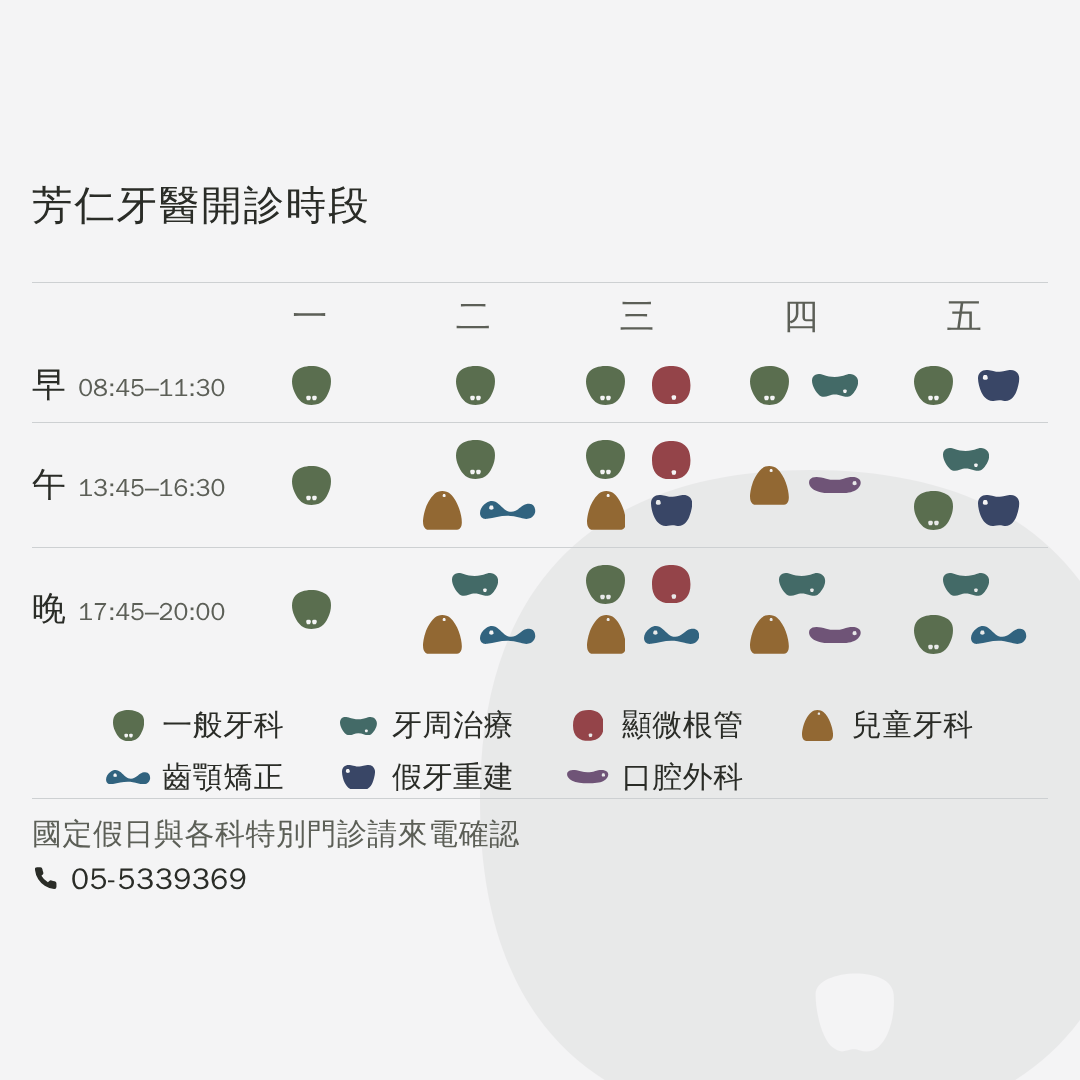
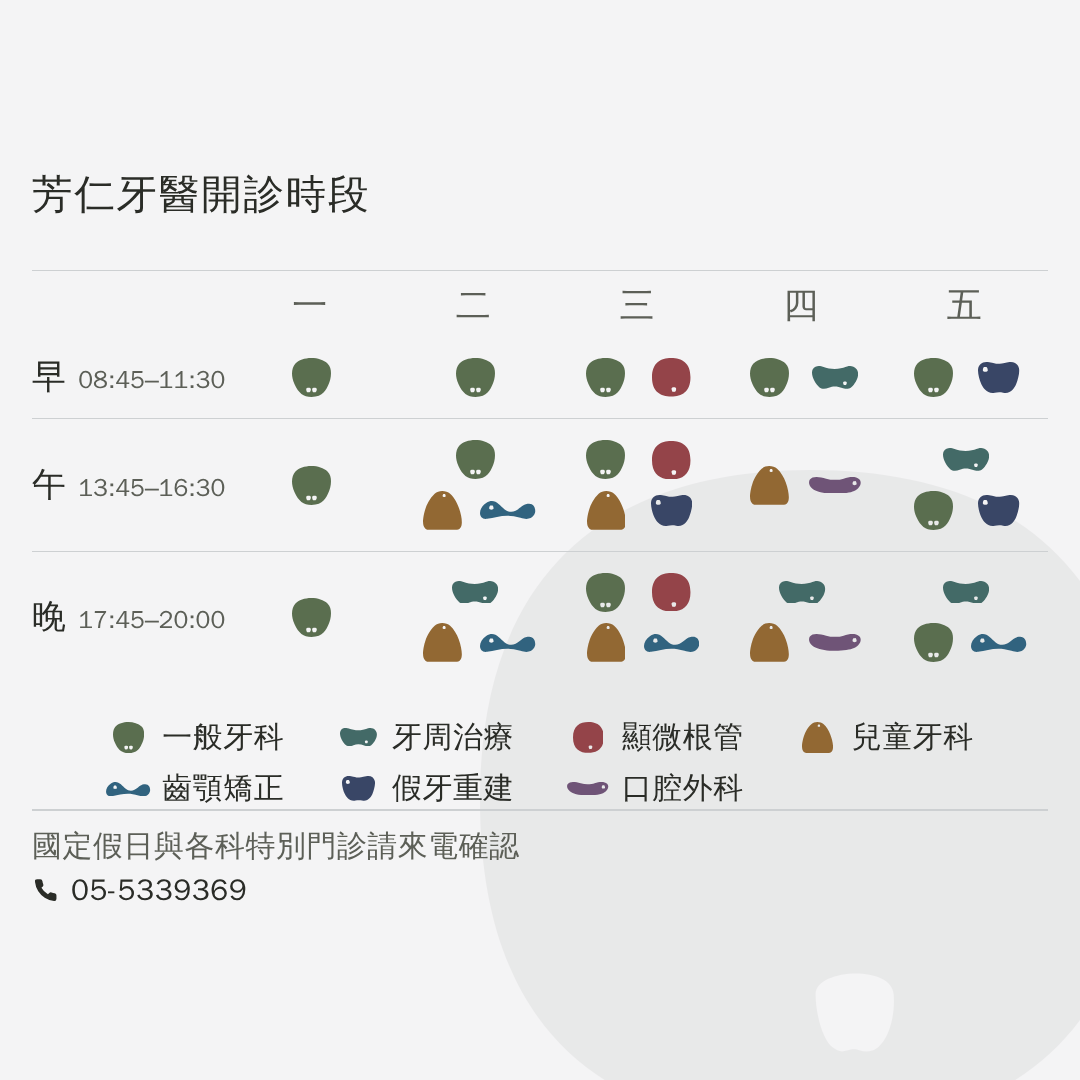
貼文的看診時間圖：1.30 那一張的列距再拉開（33.8 → 41.6px）
--rowpad 改成可以逐案給（gap 陣列多接一格），只有 1.30 那一張換成 16。
內容 723 → 746px，主頁大格上下各切掉 93 → 105px —— 拉開列距的代價就是多切 12px。
⚠ 其餘四張一個值都沒動，規格頁上把這件事寫在那一張的說明裡，
不然「只差倍率」那句話會變成謊話。

Claude-Session: https://claude.ai/code/session_01MZajVWsXZEKKyaPnDuqBAm

diff --git a/preview/line-post-hours/index.html b/preview/line-post-hours/index.html
@@ -68,8 +68,8 @@ code{font-size:.94em;background:var(--card);border-radius:4px;padding:0 4px;
     <span>放大的四個版本　2026-09-07</span></h1>
   <p class="pv-lead">科別說明和門診表<b>拉開了</b>（16 → 26px），
     放大做成<b>四個版本</b>讓你挑：<b>Ⓑ 1.352</b>（上限，大格正好看到完整的表）、
-    Ⓒ 1.30、<b>Ⓕ 1.25</b>、Ⓓ 1.20、Ⓔ 1.10，最後面留著 <b>Ⓐ 1×</b> 當對照。
-    每一張只差倍率，其他每一項都一樣。<br>
+    <b>Ⓒ 1.30（列距又拉開了一點）</b>、Ⓕ 1.25、Ⓓ 1.20、Ⓔ 1.10，
+    最後面留著 <b>Ⓐ 1×</b> 當對照。<br>
     ⚠ 字母只是名字、不是順序——<b>Ⓕ 是後來補的那一版</b>，
     擺在 Ⓒ 和 Ⓓ 中間（前面幾個字母沒有動，你之前講的 Ⓒ Ⓓ Ⓔ 仍然是同一張）。</p>
 
@@ -83,12 +83,17 @@ code{font-size:.94em;background:var(--card);border-radius:4px;padding:0 4px;
     其餘每一個尺寸一起乘 <b>1.352</b>。整塊內容 530 → <span class="n">749px</span>，
     上下留白 275 → <b>166px</b>。</p>
 
-  <h2 class="pv-h2">Ⓒ 放大 1.30×</h2>
+  <h2 class="pv-h2">Ⓒ 放大 1.30×<span class="t">早／午／晚的列距再拉開了</span></h2>
   <div class="pv-shot">
     <img src="post-hours-s130.png" width="1080" height="1080" loading="lazy"
       alt="看診時間圖：放大 1.30 倍">
   </div>
-  <p class="pv-cap">內容 723px，主頁大格上下各切掉 <b>93px</b>。</p>
+  <p class="pv-cap"><b>只有這一張</b>的列距又拉開了一點：上下內距 13 → <b>16</b>，
+    畫出來列距 33.8 → <span class="n">41.6px</span>。<br>
+    內容 723 → <b>746px</b>，主頁大格上下各切掉 93 → <b>105px</b>——
+    <b>拉開列距的代價就是多切掉 12px</b>。<br>
+    ⚠ 其餘每一張的列距<b>都沒有動</b>（還是 13），所以「只差倍率」那句話對
+    Ⓑ Ⓕ Ⓓ Ⓔ 仍然成立。</p>
 
   <h2 class="pv-h2">Ⓕ 放大 1.25×<span class="t">2026-09-07 補的</span></h2>
   <div class="pv-shot">

diff --git a/drafts/channels/README.md b/drafts/channels/README.md
@@ -7341,6 +7341,13 @@ node drafts/channels/oa-shots.mjs && node drafts/channels/build-spec.mjs && node
 **刻意不重新編字母**：他上一輪已經用 Ⓒ Ⓓ Ⓔ 講過話，重編會讓那些話指到別張圖上。
 **通則：中途插一個新選項時，寧可讓字母的順序亂掉，也不要動已經被引用過的名字。**
 
+⚠ **2026-09-07 再一件：「把 1.3 早午晚的間隔再拉開一點點。」**
+`--rowpad` 從 CSS 的預設值改成**可以逐案給**（`gap` 那個陣列多接一個第三格），
+只有 **1.30 那一張**換成 16（畫出來列距 33.8 → **41.6px**）。
+內容 723 → **746px**，大格上下各切掉 93 → **105px** —— **拉開列距的代價就是多切 12px**。
+⚠ 其餘四張一個值都沒動，所以「只差倍率」那句話對它們仍然成立
+（規格頁上把這件事寫在那一張的說明裡，不然那句話會變成謊話）。
+
 ### 33-6　⚠ 一格裡有三顆時的分行，以及「順序」住在哪裡
 
 分行規則（`lines()`）：1→[1]　2→[2]　**3→[1,2]**　4→[2,2] ——
